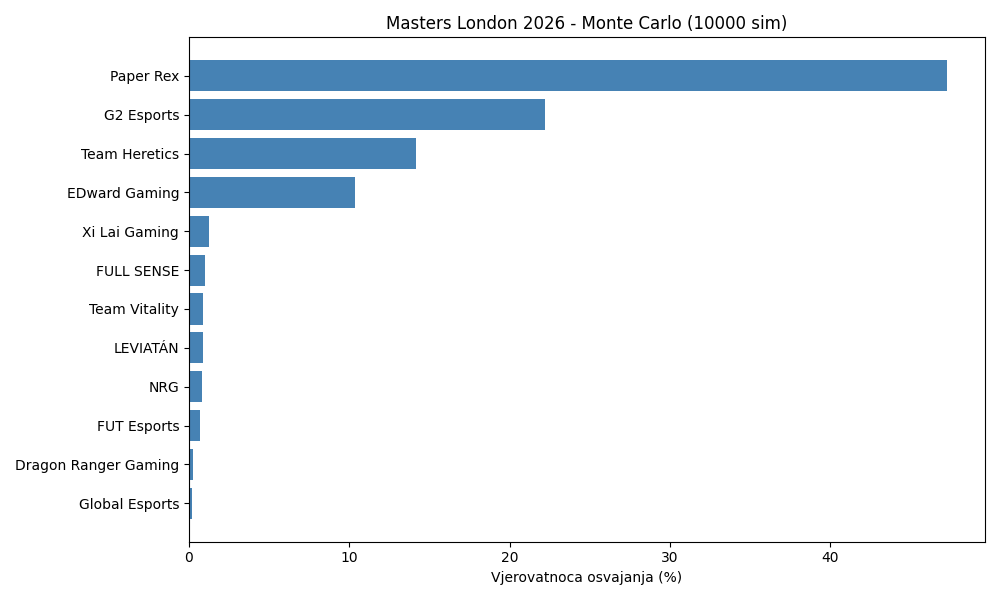
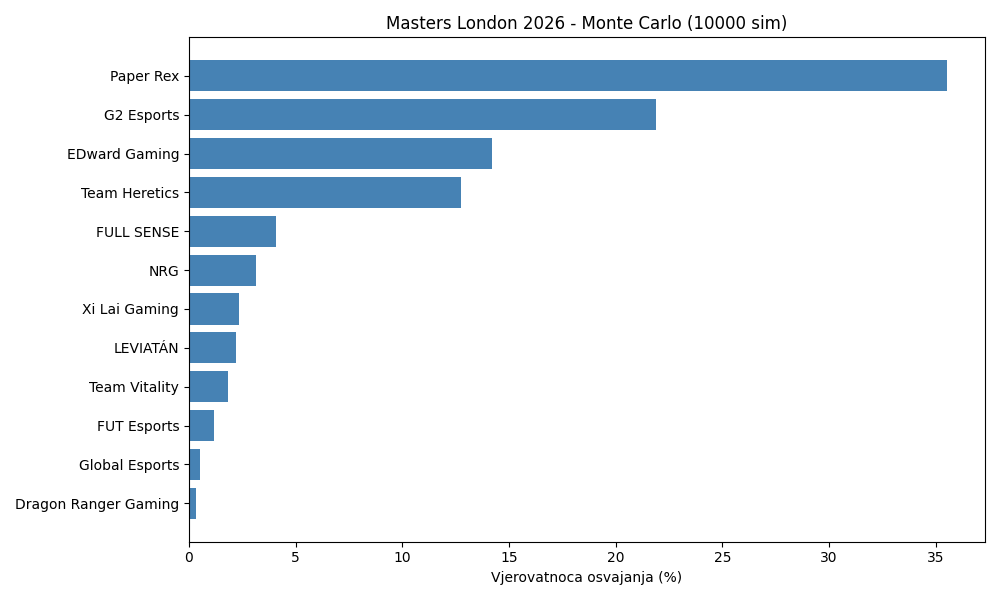
Dodana korelaciona analiza, hyperparameter tuning, feature selection

diff --git a/kod/london.py b/kod/london.py
@@ -1,8 +1,19 @@
 """
 ====================================================================
-   VALORANT VCT - PREDIKCIJA MASTERS LONDON 2026 
+   VALORANT VCT - PREDIKCIJA MASTERS LONDON 2026 (OPTIMIZOVANO)
 ====================================================================
 
+Glavne izmjene u odnosu na prvu verziju:
+  1. RECENCY WEIGHTING - noviji mecevi imaju vecu tezinu (2026 >> 2021)
+  2. STAGE 1 2026 PODACI - championship_points kao feature
+  3. MASTERS SANTIAGO 2026 - dodati u trening (najsvjeziji Masters)
+  4. MAP-SPECIFIC WIN RATE - kao feature u modelu (ne samo za prikaz)
+  5. FIX ECO BUG - prave kategorije ($, $$, $$$, Eco, Pistol)
+  6. PISTOL WIN RATE - jak prediktor
+  7. STANDARDNO SKALIRANJE - StandardScaler u pipeline-u
+  8. GRADIENT BOOSTING - novi, jaci algoritam
+  9. REALAN MONTE CARLO - bez "biranja protivnika", standardno seedovanje
+ 10. FIX DATA LEAKAGE - CV samo na trening setu
 """
 
 import os
@@ -31,8 +42,8 @@ warnings.filterwarnings("ignore")
 PATH = r"C:\Users\KORISNIK\Desktop\6. semestar\Softverski algoritmi u sistemima automatskog upravljanja\Projekat\dataset"
 GODINE = ["vct_2021", "vct_2022", "vct_2023", "vct_2024", "vct_2025", "vct_2026"]
 PATH_REZULTATI = r"C:\Users\KORISNIK\Desktop\6. semestar\Softverski algoritmi u sistemima automatskog upravljanja\Projekat\rezultati"
-
 # RECENCY WEIGHTING - skoriji mecevi vise vrijede pri treniranju
+# Manje agresivno nego prije - cuvamo informaciju o istorijski jakim timovima
 RECENCY_WEIGHTS = {
     "vct_2021": 0.30,
     "vct_2022": 0.50,
@@ -144,6 +155,7 @@ df_stage1_mecevi = pd.concat(stage1_mecevi, ignore_index=True) if stage1_mecevi 
 print(f"  stage1 mecevi: {len(df_stage1_mecevi)} meceva")
 
 # KANONIZACIJA IMENA - KRITICNO! 
+# Inace NRG izgleda kao slab tim jer su "Mega Minors" mecevi razdvojeni
 print("\n  Kanonizujem aliase timova...")
 for df_x in [df_pro, df_eco, df_overview, df_players, df_maps_scores, df_teams_agents]:
     kanonizuj_imena(df_x)
@@ -153,6 +165,7 @@ if not df_stage1_mecevi.empty:
     df_stage1_mecevi["team_b"] = df_stage1_mecevi["team_b"].replace(ALIAS_MAPPING)
     df_stage1_mecevi["winner"] = df_stage1_mecevi["winner"].replace(ALIAS_MAPPING)
 
+# Verifikacija - koliko sada NRG ima meceva u tier1?
 provj = df_pro[((df_pro["Team A"]=="NRG") | (df_pro["Team B"]=="NRG")) & 
                (df_pro["Tournament"].str.contains("Champions 2025|Santiago 2026|Toronto 2025", na=False))]
 print(f"  Provjera: NRG mecevi na tier1 (Champions 2025/Santiago 2026/Toronto 2025): {len(provj)}")
@@ -256,7 +269,7 @@ team_map_wr["ukupno_mapa"] = team_map_wr["map_uk_a"] + team_map_wr["map_uk_b"]
 team_map_wr["map_wr"] = team_map_wr["ukupne_pobjede_mapa"] / team_map_wr["ukupno_mapa"].replace(0, np.nan)
 team_map_wr = team_map_wr[["Team", "map_wr", "ukupno_mapa"]]
 
-# --- 2.5 STAGE 1 2026 - CHAMPIONSHIP POINTS  ---
+# --- 2.5 STAGE 1 2026 - CHAMPIONSHIP POINTS (NOVI KLJUCNI FEATURE!) ---
 stage1_features = df_stage1[["team", "championship_points", "placement", "region"]].copy()
 stage1_features.columns = ["Team", "championship_points", "stage1_placement", "region"]
 # Skaliraj placement: 1. mjesto = 1.0, 12. mjesto = 0.0
@@ -526,6 +539,62 @@ y_test = test[target].values
 print(f"Train: {len(X_train)}, Test: {len(X_test)}")
 
 # ====================================================================
+#  3.5 ENKODIRANJE I KORELACIONA ANALIZA
+# ====================================================================
+
+print("\n" + "=" * 60)
+print("  ENKODIRANJE I KORELACIONA ANALIZA")
+print("=" * 60)
+
+# ENKODIRANJE:
+# Kategoricki atributi (Tournament, Stage, Match Type, godina) NISU
+# direktno korisceni kao feature-i. Umjesto toga, iz njih su IZVEDENI
+# numericki feature-i:
+#   - "godina" -> recency_weight (0.30 - 1.50)
+#   - "Tournament" -> tier1_wr, recent_int_wr (da li je medjunarodni turnir)
+#   - "Team A"/"Team B" -> svi team-level feature-i (ELO, dynamic_wr, itd.)
+#
+# Ovim pristupom izbjegavamo probleme one-hot encodinga na 100+ timova
+# i 20+ turnira (sto bi stvorilo rijedak, visokodimenzionalan dataset).
+
+# KORELACIONA ANALIZA
+# Provjeravamo da li su featuri medjusobno jako korelisani (multikolinearnost).
+# Ako dva featura nose istu informaciju, model moze biti nestabilan.
+
+df_corr = pd.DataFrame(X_train, columns=features)
+corr_matrix = df_corr.corr()
+
+# Heatmapa korelacija
+plt.figure(figsize=(16, 12))
+mask = np.triu(np.ones_like(corr_matrix, dtype=bool))
+sns.heatmap(corr_matrix, mask=mask, annot=True, fmt=".2f", cmap="RdBu_r",
+            center=0, vmin=-1, vmax=1, linewidths=0.5,
+            square=True, cbar_kws={"shrink": 0.8})
+plt.title("Korelaciona matrica atributa", fontsize=14, fontweight="bold", pad=15)
+plt.xticks(rotation=45, ha="right", fontsize=8)
+plt.yticks(fontsize=8)
+plt.tight_layout()
+plt.savefig(os.path.join(PATH_REZULTATI, "korelaciona_matrica.png"), dpi=120)
+plt.close()
+
+# Prikazi parove sa jakom korelacijom (|r| > 0.7)
+print("\nParovi atributa sa jakom korelacijom (|r| > 0.7):")
+jaki_parovi = []
+for i in range(len(corr_matrix.columns)):
+    for j in range(i+1, len(corr_matrix.columns)):
+        r = corr_matrix.iloc[i, j]
+        if abs(r) > 0.7:
+            jaki_parovi.append((corr_matrix.columns[i], corr_matrix.columns[j], r))
+            print(f"  {corr_matrix.columns[i]:25s} <-> {corr_matrix.columns[j]:25s}  r={r:.3f}")
+
+if not jaki_parovi:
+    print("  Nema parova sa |r| > 0.7 — nema problema sa multikolinearniscu.")
+else:
+    print(f"\n  Ukupno {len(jaki_parovi)} jako korelisanih parova.")
+    print("  NAPOMENA: Ovo moze uticati na Logisticku regresiju i SVM,")
+    print("  ali Random Forest i Gradient Boosting su robustni na korelacije.")
+
+# ====================================================================
 #  4. TRENIRANJE MODELA (sa skaliranjem i recency weighting)
 # ====================================================================
 
@@ -651,6 +720,239 @@ if hasattr(najbolji_model, "feature_importances_"):
     plt.tight_layout()
     plt.savefig(os.path.join(PATH_REZULTATI, "feature_importance_v2.png"), dpi=100)
     plt.close()
+
+# ====================================================================
+#  5.5 PODESAVANJE HIPERPARAMETARA (GridSearchCV)
+# ====================================================================
+
+print("\n" + "=" * 60)
+print("  PODESAVANJE HIPERPARAMETARA (GridSearchCV)")
+print("=" * 60)
+
+from sklearn.model_selection import GridSearchCV
+
+# Logisticka regresija
+print("\n  Logisticka regresija...")
+lr_pipe = Pipeline([("scaler", StandardScaler()), ("clf", LogisticRegression(max_iter=2000))])
+lr_params = {"clf__C": [0.01, 0.1, 1, 10, 100], "clf__penalty": ["l1", "l2"],
+             "clf__solver": ["liblinear"]}
+lr_grid = GridSearchCV(lr_pipe, lr_params, cv=5, scoring="accuracy", n_jobs=-1)
+lr_grid.fit(X_train, y_train)
+print(f"    Najbolji parametri: {lr_grid.best_params_}")
+print(f"    CV accuracy:  {lr_grid.best_score_:.3f}")
+print(f"    Test accuracy: {lr_grid.score(X_test, y_test):.3f}")
+
+# Random Forest
+print("\n  Random Forest...")
+rf_params = {"n_estimators": [100, 200, 300], "max_depth": [5, 8, 10, 15, None],
+             "min_samples_split": [2, 5, 10]}
+rf_grid = GridSearchCV(
+    RandomForestClassifier(random_state=RANDOM_STATE),
+    rf_params, cv=5, scoring="accuracy", n_jobs=-1)
+rf_grid.fit(X_train, y_train, sample_weight=sample_weights)
+print(f"    Najbolji parametri: {rf_grid.best_params_}")
+print(f"    CV accuracy:  {rf_grid.best_score_:.3f}")
+print(f"    Test accuracy: {rf_grid.score(X_test, y_test):.3f}")
+
+# Gradient Boosting
+print("\n  Gradient Boosting...")
+gb_params = {"n_estimators": [100, 200, 300], "max_depth": [3, 4, 5, 6],
+             "learning_rate": [0.01, 0.05, 0.1]}
+gb_grid = GridSearchCV(
+    GradientBoostingClassifier(random_state=RANDOM_STATE),
+    gb_params, cv=5, scoring="accuracy", n_jobs=-1)
+gb_grid.fit(X_train, y_train, sample_weight=sample_weights)
+print(f"    Najbolji parametri: {gb_grid.best_params_}")
+print(f"    CV accuracy:  {gb_grid.best_score_:.3f}")
+print(f"    Test accuracy: {gb_grid.score(X_test, y_test):.3f}")
+
+# SVM
+print("\n  SVM (RBF)...")
+svm_pipe = Pipeline([("scaler", StandardScaler()),
+                      ("clf", SVC(kernel="rbf", probability=True, random_state=RANDOM_STATE))])
+svm_params = {"clf__C": [0.1, 1, 10, 100], "clf__gamma": ["scale", "auto", 0.01, 0.1]}
+svm_grid = GridSearchCV(svm_pipe, svm_params, cv=5, scoring="accuracy", n_jobs=-1)
+svm_grid.fit(X_train, y_train)
+print(f"    Najbolji parametri: {svm_grid.best_params_}")
+print(f"    CV accuracy:  {svm_grid.best_score_:.3f}")
+print(f"    Test accuracy: {svm_grid.score(X_test, y_test):.3f}")
+
+# KNN
+print("\n  KNN...")
+knn_pipe = Pipeline([("scaler", StandardScaler()), ("clf", KNeighborsClassifier())])
+knn_params = {"clf__n_neighbors": [3, 5, 7, 9, 11, 15],
+              "clf__weights": ["uniform", "distance"],
+              "clf__metric": ["euclidean", "manhattan"]}
+knn_grid = GridSearchCV(knn_pipe, knn_params, cv=5, scoring="accuracy", n_jobs=-1)
+knn_grid.fit(X_train, y_train)
+print(f"    Najbolji parametri: {knn_grid.best_params_}")
+print(f"    CV accuracy:  {knn_grid.best_score_:.3f}")
+print(f"    Test accuracy: {knn_grid.score(X_test, y_test):.3f}")
+
+# Sacuvaj tabelu poredjenja: default vs tuned
+print("\n  === POREDENJE: DEFAULT vs TUNED ===")
+tuned_modeli = {
+    "Logisticka regresija": lr_grid,
+    "Random Forest": rf_grid,
+    "Gradient Boosting": gb_grid,
+    "SVM (RBF)": svm_grid,
+    "KNN": knn_grid,
+}
+print(f"  {'Algoritam':25s} {'Default':>10s} {'Tuned':>10s} {'Razlika':>10s}")
+print(f"  {'-'*55}")
+for naziv, grid in tuned_modeli.items():
+    default_acc = rezultati_test.get(naziv, rezultati_test.get("KNN (k=7)", 0))
+    tuned_acc = grid.score(X_test, y_test)
+    diff = tuned_acc - default_acc
+    print(f"  {naziv:25s} {default_acc:10.3f} {tuned_acc:10.3f} {diff:+10.3f}")
+
+# Azuriraj najbolji model ako je tuned bolji
+sve_tuned = {n: g.score(X_test, y_test) for n, g in tuned_modeli.items()}
+best_tuned_naziv = max(sve_tuned, key=sve_tuned.get)
+best_tuned_acc = sve_tuned[best_tuned_naziv]
+
+if best_tuned_acc > rezultati_test[najbolji_naziv]:
+    print(f"\n  Tuned '{best_tuned_naziv}' ({best_tuned_acc:.3f}) je bolji od "
+          f"default '{najbolji_naziv}' ({rezultati_test[najbolji_naziv]:.3f})")
+    najbolji_model = tuned_modeli[best_tuned_naziv].best_estimator_
+    najbolji_naziv = f"{best_tuned_naziv} (tuned)"
+    print(f"  -> Koristim tuned model za predikcije")
+else:
+    print(f"\n  Default '{najbolji_naziv}' je i dalje najbolji ({rezultati_test[najbolji_naziv]:.3f})")
+
+# ====================================================================
+#  5.6 ODABIR NAJZNACAJNIJIH ATRIBUTA
+# ====================================================================
+
+print("\n" + "=" * 60)
+print("  ODABIR NAJZNACAJNIJIH ATRIBUTA")
+print("=" * 60)
+
+from sklearn.feature_selection import SelectKBest, f_classif, RFE
+
+# --- Metoda 1: SelectKBest (statisticki test) ---
+print("\n--- Metoda 1: SelectKBest (ANOVA F-test) ---")
+selector_kb = SelectKBest(f_classif, k="all")
+selector_kb.fit(X_train, y_train)
+
+kb_scores = pd.DataFrame({
+    "feature": features,
+    "f_score": selector_kb.scores_,
+    "p_value": selector_kb.pvalues_
+}).sort_values("f_score", ascending=False)
+
+print("\nRangiranje atributa po F-score:")
+for i, (_, row) in enumerate(kb_scores.iterrows(), 1):
+    zvjezdica = "***" if row["p_value"] < 0.001 else "**" if row["p_value"] < 0.01 else "*" if row["p_value"] < 0.05 else ""
+    print(f"  {i:2d}. {row['feature']:25s}  F={row['f_score']:8.2f}  p={row['p_value']:.4f} {zvjezdica}")
+
+# --- Metoda 2: RFE (Recursive Feature Elimination) sa Logistickom regresijom ---
+print("\n--- Metoda 2: RFE (Recursive Feature Elimination) ---")
+rfe_estimator = Pipeline([("scaler", StandardScaler()),
+                          ("clf", LogisticRegression(max_iter=2000, random_state=RANDOM_STATE))])
+# RFE ne radi direktno sa Pipeline, pa koristimo samo na skaliranim podacima
+scaler_rfe = StandardScaler()
+X_train_scaled = scaler_rfe.fit_transform(X_train)
+X_test_scaled = scaler_rfe.transform(X_test)
+
+rfe = RFE(LogisticRegression(max_iter=2000, random_state=RANDOM_STATE),
+          n_features_to_select=10, step=1)
+rfe.fit(X_train_scaled, y_train)
+
+rfe_selected = [f for f, s in zip(features, rfe.support_) if s]
+rfe_ranking = pd.DataFrame({
+    "feature": features,
+    "rank": rfe.ranking_,
+    "selected": rfe.support_
+}).sort_values("rank")
+
+print("\nRFE ranking (1 = odabran):")
+for _, row in rfe_ranking.iterrows():
+    oznaka = "SELECTED" if row["selected"] else ""
+    print(f"  Rank {int(row['rank']):2d}: {row['feature']:25s} {oznaka}")
+
+# --- Metoda 3: Feature Importance iz Random Forest (tuned) ---
+print("\n--- Metoda 3: Feature Importance (Random Forest, tuned) ---")
+rf_best = rf_grid.best_estimator_
+fi_rf = pd.DataFrame({
+    "feature": features,
+    "importance": rf_best.feature_importances_
+}).sort_values("importance", ascending=False)
+
+print("\nTop 15 atributa po RF importance:")
+for i, (_, row) in enumerate(fi_rf.head(15).iterrows(), 1):
+    bar = "#" * int(row["importance"] * 200)
+    print(f"  {i:2d}. {row['feature']:25s}  {row['importance']:.4f}  {bar}")
+
+# Vizualizacija poredjenja sve 3 metode
+fig, axes = plt.subplots(1, 3, figsize=(18, 8))
+
+# SelectKBest
+ax = axes[0]
+top_kb = kb_scores.head(15)
+ax.barh(top_kb["feature"][::-1], top_kb["f_score"][::-1], color="#2a9d8f")
+ax.set_title("SelectKBest (F-score)", fontsize=11, fontweight="bold")
+ax.set_xlabel("F-score")
+
+# RFE ranking
+ax = axes[1]
+rfe_top = rfe_ranking.head(15)
+boje_rfe = ["#2a9d8f" if s else "#e5e5e5" for s in rfe_top["selected"][::-1]]
+ax.barh(rfe_top["feature"][::-1], [max(features.__len__() - r + 1, 0) for r in rfe_top["rank"][::-1]],
+        color=boje_rfe)
+ax.set_title("RFE (Recursive Feature Elimination)", fontsize=11, fontweight="bold")
+ax.set_xlabel("Inverzni rang")
+
+# RF Importance
+ax = axes[2]
+top_fi = fi_rf.head(15)
+ax.barh(top_fi["feature"][::-1], top_fi["importance"][::-1], color="#457b9d")
+ax.set_title("Random Forest Importance", fontsize=11, fontweight="bold")
+ax.set_xlabel("Importance")
+
+plt.suptitle("Poredenje metoda za odabir atributa", fontsize=14, fontweight="bold", y=1.01)
+plt.tight_layout()
+plt.savefig(os.path.join(PATH_REZULTATI, "feature_selection_poredenje.png"), dpi=120)
+plt.close()
+
+# --- POREDENJE: SVI ATRIBUTI vs TOP 10 ---
+print("\n" + "=" * 60)
+print("  POREDENJE: SVI ATRIBUTI vs TOP 10 (RFE)")
+print("=" * 60)
+
+# Top 10 po RFE
+X_train_top10 = X_train_scaled[:, rfe.support_]
+X_test_top10 = X_test_scaled[:, rfe.support_]
+
+print(f"\n  Svi atributi: {len(features)}")
+print(f"  Top 10 (RFE): {rfe_selected}")
+
+# Treniraj i uporedi
+modeli_za_poredjenje = {
+    "Logisticka regresija": LogisticRegression(max_iter=2000, random_state=RANDOM_STATE),
+    "Random Forest": RandomForestClassifier(
+        **rf_grid.best_params_, random_state=RANDOM_STATE),
+    "Gradient Boosting": GradientBoostingClassifier(
+        **gb_grid.best_params_, random_state=RANDOM_STATE),
+}
+
+print(f"\n  {'Algoritam':25s} {'Svi attr':>10s} {'Top 10':>10s} {'Razlika':>10s}")
+print(f"  {'-'*55}")
+for naziv, model in modeli_za_poredjenje.items():
+    # Svi atributi
+    model.fit(X_train_scaled, y_train)
+    acc_svi = accuracy_score(y_test, model.predict(X_test_scaled))
+
+    # Top 10
+    model_top = type(model)(**model.get_params())
+    model_top.fit(X_train_top10, y_train)
+    acc_top = accuracy_score(y_test, model_top.predict(X_test_top10))
+
+    diff = acc_top - acc_svi
+    print(f"  {naziv:25s} {acc_svi:10.3f} {acc_top:10.3f} {diff:+10.3f}")
+
+print("\n  ZAKLJUCAK: Ako je razlika mala ili pozitivna, znaci da nepotrebni")
+print("  atributi dodaju sum (noise) i model radi jednako ili bolje sa manje.")
 
 # ====================================================================
 #  6. PREDIKCIJA MECEVA - FUNKCIJE